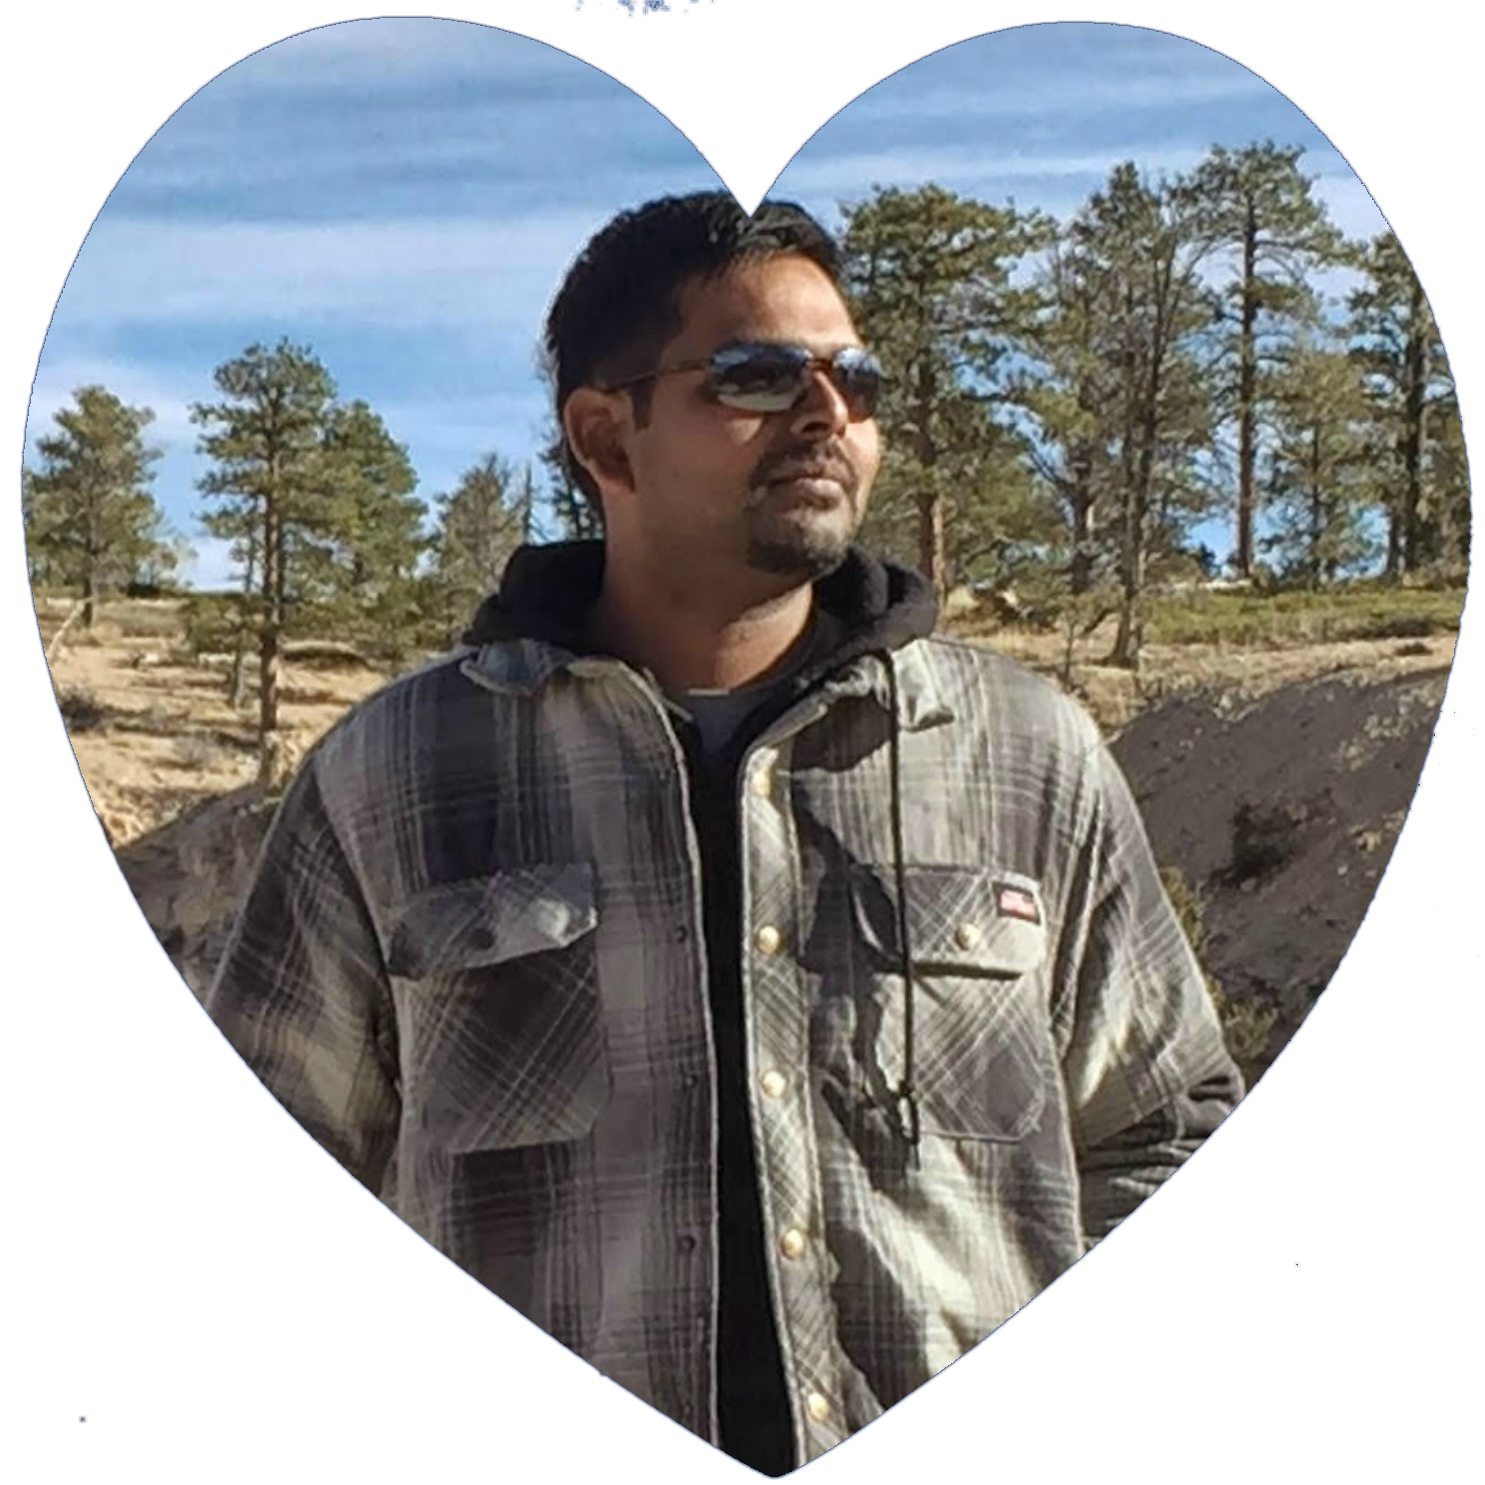
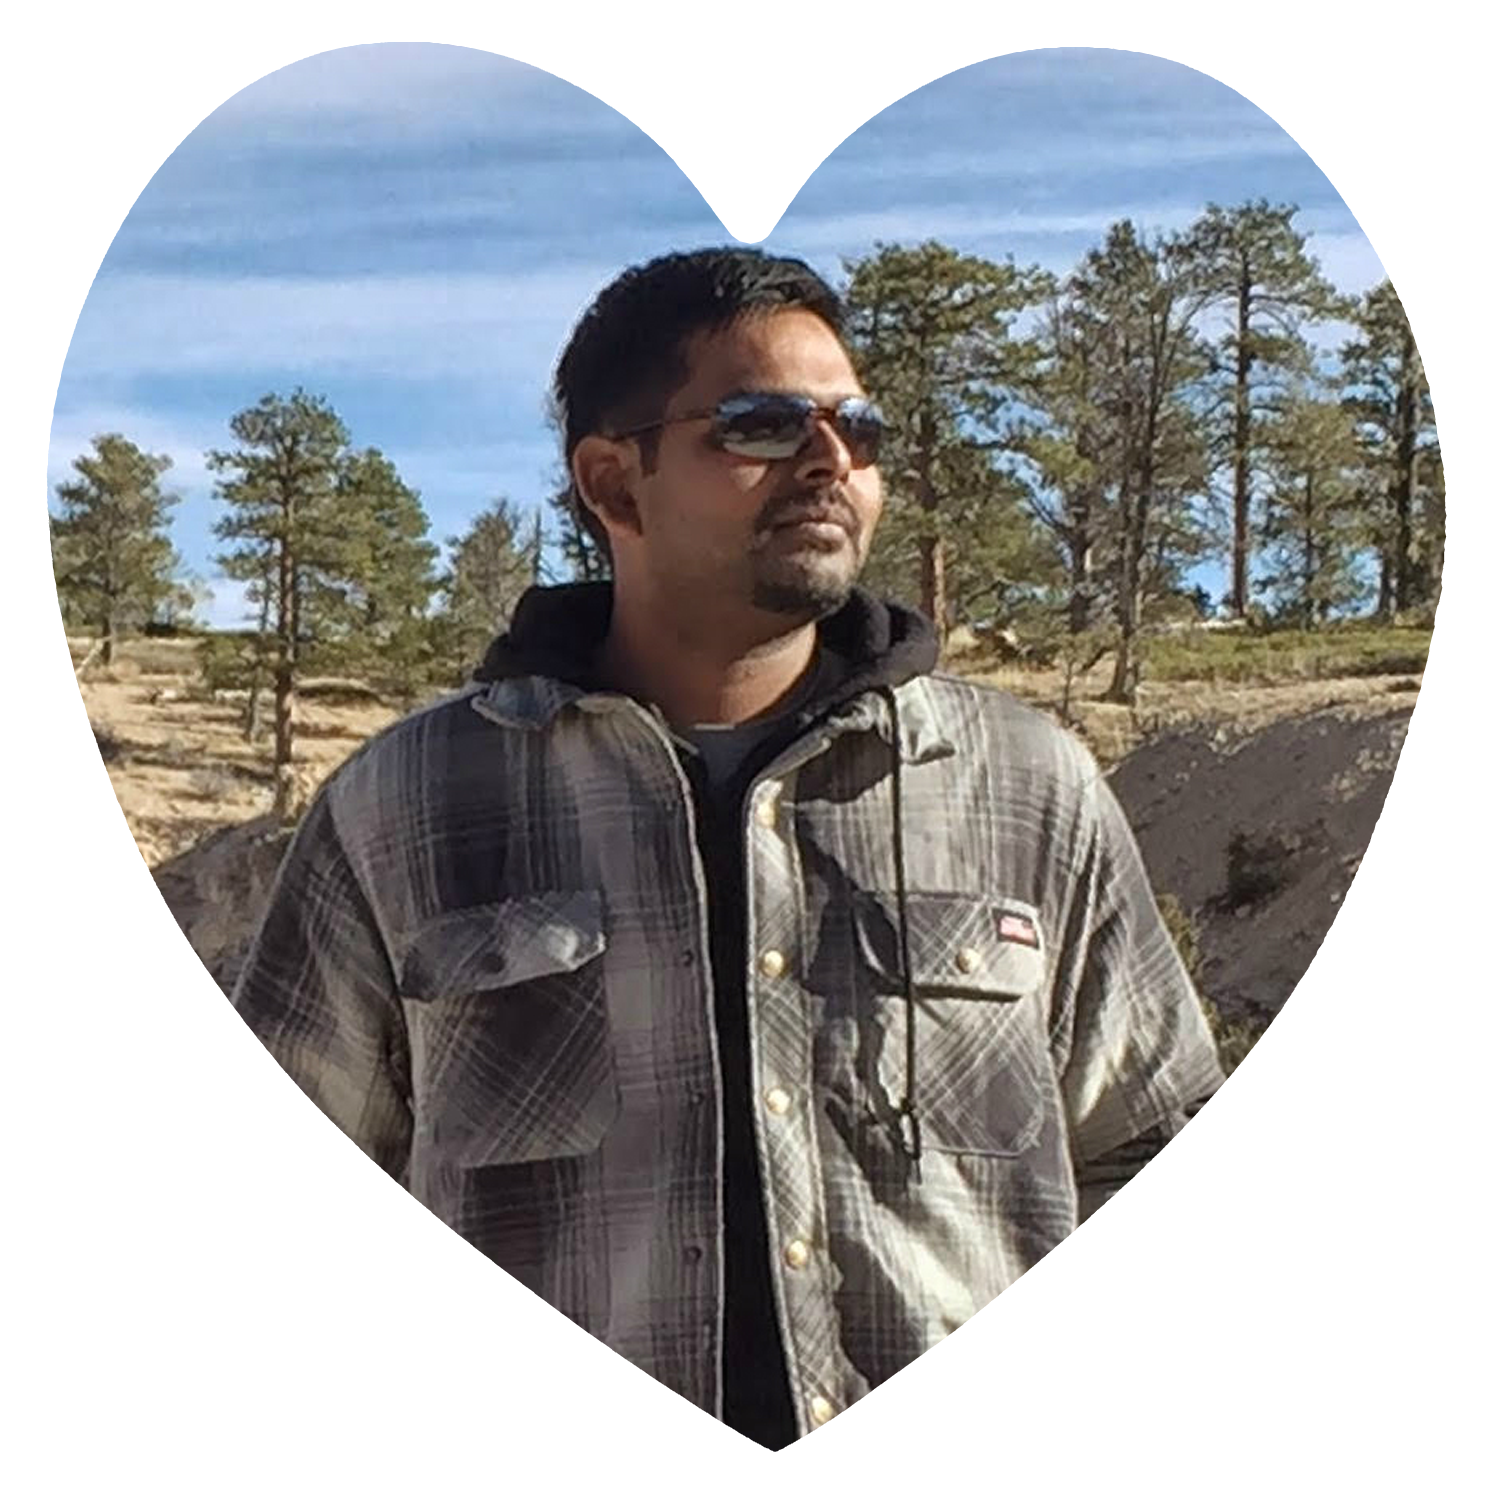
Design version3

diff --git a/index.html b/index.html
@@ -12,34 +12,20 @@
     <section class='background-img'>
     <section class='container-fluid'>
         <section class="row home_bckgrnd content" id='Home'>
+            
+            
+            <section class='col-lg-4 col-lg-offset-8 col-md-4 col-md-offset-8 col-sm-4 col-sm-offset-8 img '>
+                <section class='rel'>
+                    <img src="images/anand_heart.png"  class='anandImg'/>
+                   
+                </section>
+            </section>
             <section class='col-lg-4 col-lg-offset-8 col-md-4 col-md-offset-8 col-sm-4 col-sm-offset-8 img '>
                 <section class='rel'>
                     <img src="images/vinodha_heart.png"  class='vinodhaImg'/>
-                    <!--section class='cover'>
-                    
-                    
-                    <!--<label class='name'>Vinodha, The Bride</label>
-                    <span class='desc'>blah blah blah <i class="fa fa-plus-circle"></i></span>
-                        </section-->
-                </section>
-            </section>
-            <section class="col-lg-4 col-md-4 col-sm-4 andCont">
-                
-            </section>
-            <section class='col-lg-4 col-lg-offset-8 col-md-4 col-md-offset-8 col-sm-4 col-sm-offset-8 img '>
-                <section class='rel'>
-                  <img src="images/anand_heart.png"  class='anandImg'/>
-                    <!--section class='cover'>
-                    
                    
-                    <label class='name'>Anand, The Groom</label>
-                         
-                    
-                        <span class='desc'>blah blah blah <i class="fa fa-plus-circle"></i></span>
-                         </section-->
                 </section>
             </section>
-        
             <section class="content-text col-lg-12 col-md-12 col-sm-12 text-center "><label class='h4'>
             Are getting married
             </label><br>
@@ -91,7 +77,7 @@
     var clrIntrvl;
     $(document).ready(function(){
         
-            $('.vinodhaImg,.anandImg').addClass("opImg");
+            window.setTimeout(function(){$('.vinodhaImg,.anandImg').addClass("opImg");},3000);
          
     
         

diff --git a/Css/style.css b/Css/style.css
@@ -378,7 +378,7 @@ a {
 .background-img {
   width: 100%;
   height: 100vh;
-  background-image: url('../images/IMG_2.jpg');
+  background-image: url('../images/IMG_5.jpg');
   background-size: 100% 100%;
   background-position: 100% 100%;
 }
@@ -401,9 +401,9 @@ footer ul li.current a {
   color: red;
 }
 .content {
-  height: 35%;
-  top: 30%;
-  left: 15%;
+  height: 40%;
+  top: 20%;
+  right: 5%;
   width: 70%;
   position: absolute;
   /* border-radius:2%;
@@ -411,9 +411,6 @@ footer ul li.current a {
     
     border:1px solid red;
     border-color:#ccc;/*rgba(255,0,0,0.5);*/
-}
-.home_bckgrnd {
-  padding-top: 20px;
 }
 .decorator {
   top: 0px;
@@ -458,7 +455,7 @@ footer ul li.current a {
 .img img {
   height: 100%;
   width: auto;
-  transform: rotate(-20deg);
+  transition: transform 3s,margin 3s;
 }
 .img .desc {
   bottom: 2%;
@@ -479,11 +476,11 @@ footer ul li.current a {
   margin-top: 10%;
   color: #1f3a93;
 }
-img.anandImg {
+img.anandImg.opImg {
+  transform: rotate(-20deg);
+}
+img.vinodhaImg.opImg {
   transform: rotate(40deg);
   margin-top: -70px;
   margin-left: 70px;
-}
-.opImg {
-  opacity: 1;
 }

diff --git a/Css/style.less b/Css/style.less
@@ -51,10 +51,10 @@ footer ul li.current a{
 
 
 .content{
-    height:35%;
-    top:30%;
-    left:15%;
-    width:70%;
+    height:40%;
+    top:20%;
+    right:5%;
+    width:  70%;
     position:absolute;
    /* border-radius:2%;
     background-color: rgba(0,0,0,0.1);
@@ -65,9 +65,7 @@ footer ul li.current a{
 }
 
 
-.home_bckgrnd{
-    padding-top:20px;
-}
+
 
 .decorator{
     top:0px;
@@ -108,7 +106,7 @@ footer ul li.current a{
         height:100%;
         width:auto;
         
-        transform:rotate(-20deg);
+        transition:transform 3s,margin 3s;
     }
     
     .desc{
@@ -136,14 +134,15 @@ footer ul li.current a{
     margin-top:10%;
     color:@base-font-color;
 }
-img.anandImg{
+img.anandImg.opImg{
+    transform:rotate(-20deg);
+    
+}
+
+img.vinodhaImg.opImg{
     transform:rotate(40deg);
     margin-top:-70px;
     margin-left:70px;
-}
-
-.opImg{
-    opacity:1;
 }
 
 

diff --git a/Css/base.less b/Css/base.less
@@ -1,2 +1,2 @@
-@base-bckground: url('../images/IMG_2.jpg');
+@base-bckground: url('../images/IMG_5.jpg');
 @base-font-color:#1F3A93;
